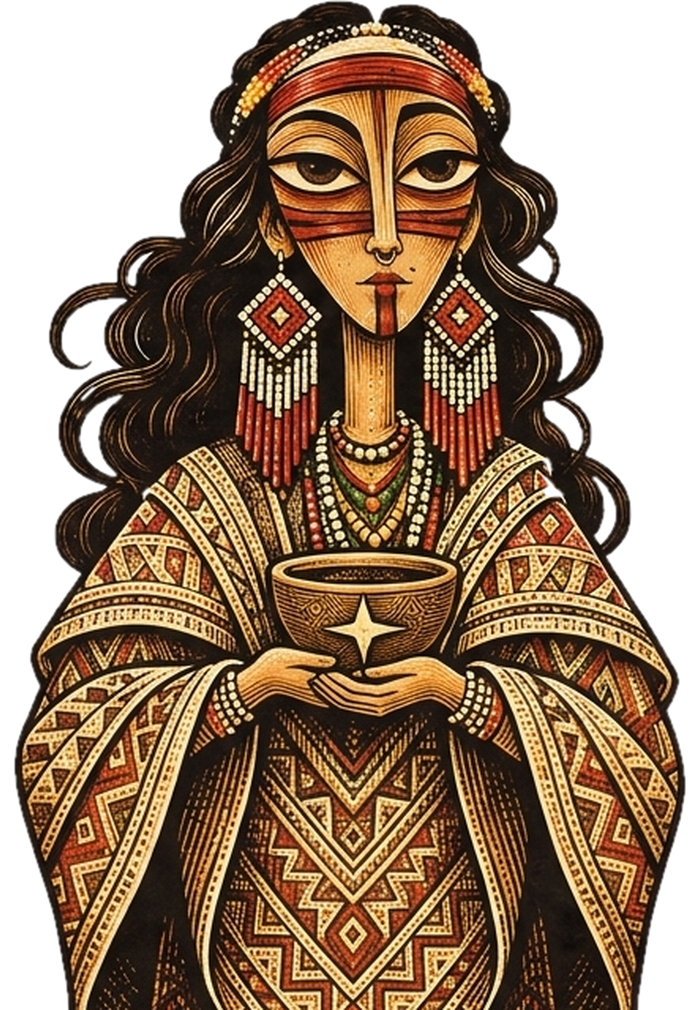
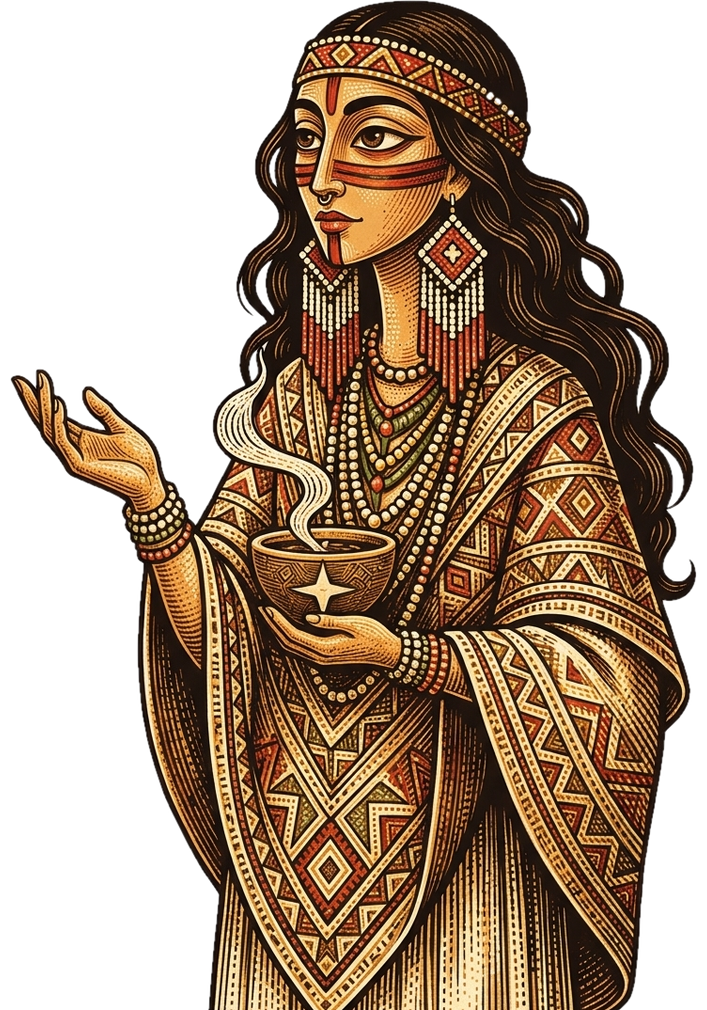
animate who is talking

diff --git a/scripts/generate_sprite_v3.py b/scripts/generate_sprite_v3.py
@@ -32,21 +32,28 @@ CHARACTER_CONFIGS = {
         "sheet_file": "Koraba_ The Bridge Keeper Dossier.png",
         "preview_bg": "bg sanctuary.png",
         "prompt": (
-            "Single full-body neutral standing character sprite of Koraba (The Bridge Keeper, musician and healer), "
+            "Three-quarter-length (knees-up) standing character portrait sprite of Koraba (The Bridge Keeper, musician and healer), "
             "strictly matching the hand-etched woodcut/engraved illustration style, elongated geometric facial features, "
             "fine parallel line hatching, stippling, and warm antique ochre/umber/ivory/slate-blue palette of the illustrated "
             "character on the reference sheet. "
-            "Pose & Framing: Full-body standing pose (standing upright on his feet, feet included—NOT sitting cross-legged), "
-            "front-facing with a relaxed, balanced, grounded ceremonial posture. "
-            "Appearance & Attire: Dark locs tied at the crown with bead-adorned strands framing his face, elongated geometric nose "
-            "and calm attentive eyes with a neutral expression, layered woven sleeveless tunic and draped wrap/shawl with fine linear "
-            "and zig-zag woodcut patterns in warm ochre, antique ivory, and muted indigo-blue, wearing beaded necklaces and bracelets. "
-            "Signature Object: Holding his gourd-bodied kora string instrument naturally at his side/front with hands resting naturally "
-            "near the kora so both his torso and the kora remain clearly readable. "
-            "IMPORTANT ISOLATION RULES: Do NOT include the large circular halo/mandala behind his head. Do NOT include floor rugs, "
-            "bottles, herbs, flutes, drums, text, labels, or character-sheet panels. Render ONLY the single standing character with a "
-            "clean, continuous hand-etched dark black/umber outer contour line, completely isolated on a pure, flat, uniform bright "
-            "white background (#FFFFFF) with generous empty white margins above the head, below the feet, and on both sides."
+            "DYNAMIC 2/3 PROFILE VIEW & DROPPED-SHOULDER POSTURE: Standing in an unmistakable, pronounced 3/4 angled body pose "
+            "(2/3 profile view) with his torso and ribcage turned 35 to 45 degrees into depth—NOT facing dead-on straight forward. "
+            "His closer shoulder is dropped noticeably lower than the other in a relaxed, natural contrapposto stance with a gentle, "
+            "living S-curve in his posture so he feels warm, grounded, and alive rather than stiff or symmetrical. "
+            "HEAD & GAZE (2/3 PROFILE, INTERACTING WITH SCENE PARTNERS): His head is turned at a natural 2/3 profile angle "
+            "(showing more of one cheek and temple, with the bridge of his elongated geometric nose angled in 3/4 profile and a "
+            "subtle 5-degree natural head tilt), and his calm, attentive eyes look naturally forward along his 2/3 head angle "
+            "toward the other characters on stage (engaged in conversation with his companions, NOT staring directly at the camera/viewer). "
+            "ASYMMETRIC SPLIT HANDS & KORA: He holds his gourd-bodied kora string instrument diagonally across his angled torso, "
+            "with his hands at two different heights doing two distinct natural jobs: his upper hand raised to chest/collarbone height "
+            "gently fretting/cradling the wooden kora neck, and his lower hand resting lower on the curved gourd resonator at waist level. "
+            "Appearance & Attire: Dark locs tied at the crown with bead-adorned strands draping naturally over his angled shoulders, "
+            "layered woven sleeveless tunic and asymmetrically draped indigo/ochre wrap/shawl with fine linear and zig-zag woodcut "
+            "patterns, wearing beaded necklaces and bracelets. "
+            "IMPORTANT ISOLATION RULES: Do NOT include the circular halo/mandala behind his head, floor rugs, bottles, herbs, flutes, "
+            "drums, text, or labels. Render ONLY the single standing character with a clean, continuous hand-etched dark black/umber "
+            "outer contour line, completely isolated on a pure, flat, uniform bright white background (#FFFFFF) with generous empty "
+            "white margins above the head and on both left and right sides."
         ),
     },
     "xochit": {
@@ -54,23 +61,30 @@ CHARACTER_CONFIGS = {
         "sheet_file": "Xochit_ Ceremonial Weaver Character Sheet.png",
         "preview_bg": "bg cacao_circle.png",
         "prompt": (
-            "Single full-body neutral standing character sprite of Xochit (The Ceremonial Weaver, ceremonialist and messenger), "
+            "Three-quarter-length (knees-up) standing character portrait sprite of Xochit (The Ceremonial Weaver, ceremonialist and messenger), "
             "strictly matching the hand-etched woodcut/engraved illustration style, stylized geometric facial features, "
             "fine parallel line hatching, stippling, and warm antique ochre/terracotta-red/umber/ivory/olive palette of the illustrated "
             "character on the reference sheet. "
-            "Pose & Framing: Full-body standing pose (standing upright on her feet, feet included—NOT sitting cross-legged), "
-            "front-facing with a relaxed, balanced, grounded posture. "
-            "Appearance & Attire: Long dark wavy/braided hair flowing over her shoulders, geometric red-and-gold beaded headband, "
-            "large diamond-shaped beaded fringe statement earrings, signature ceremonial red and black horizontal face-paint stripes "
-            "across her cheeks and vertical red stripe on her chin/nose bridge, layered beaded necklaces, and a richly patterned "
-            "woven poncho/huipil and long skirt with diamond and step-fret textile motifs. "
-            "Expression & Signature Object: Neutral expression, warm steady gaze, holding her carved ceremonial cacao bowl (marked with "
-            "a four-point star motif) securely with both hands at chest / solar-plexus height (just like the main portrait on the reference sheet, "
-            "with no rising smoke plumes outside her silhouette) so the bowl and hands are clearly visible in an upper-body crop. "
-            "IMPORTANT ISOLATION RULES: Do NOT include the circular cosmic halo behind her head. Do NOT include background baskets, "
-            "flowers, bottles, text, labels, or character-sheet panels. Render ONLY the single standing character with a clean, "
-            "continuous hand-etched dark black/umber outer contour line, completely isolated on a pure, flat, uniform bright "
-            "white background (#FFFFFF) with generous empty white margins above the head, below the feet, and on both sides."
+            "DYNAMIC 2/3 PROFILE VIEW & DROPPED-SHOULDER POSTURE: Standing in an unmistakable, pronounced 3/4 angled body pose "
+            "(2/3 profile view) with her torso and ribcage turned 35 to 45 degrees into depth—NOT facing dead-on straight forward. "
+            "One shoulder is closer to the camera and dropped lower in a graceful, relaxed contrapposto stance with natural asymmetric "
+            "shoulder tilt so she feels expressive, warm, and alive rather than stiff or squared-on. "
+            "HEAD & GAZE (2/3 PROFILE, INTERACTING WITH SCENE PARTNERS): Her head is turned in a natural 2/3 profile view "
+            "(showing more of one side of her face and statement earring, with her nose bridge angled in 3/4 profile and a gentle "
+            "natural head tilt), and her warm, steady eyes look naturally along her 2/3 profile angle toward the other characters "
+            "in the room (interacting with her companions on stage, NOT looking directly at the camera/viewer). "
+            "ASYMMETRIC SPLIT HANDS & CACAO BOWL: Her hands are at two slightly different heights in a natural asymmetric gesture: "
+            "one hand cradling the base of her carved ceremonial cacao bowl (marked with a four-point star motif) near her solar plexus, "
+            "while her other hand is raised slightly higher near the rim/chest in a warm, welcoming ceremonial gesture (no smoke plumes "
+            "extending outside her silhouette). "
+            "Appearance & Attire: Long dark wavy/braided hair flowing asymmetrically over her shoulders, geometric red-and-gold beaded "
+            "headband, large diamond-shaped beaded fringe statement earrings (viewed in 3/4 perspective), signature ceremonial red and "
+            "black horizontal cheek face-paint stripes and vertical red chin stripe, layered beaded necklaces, and richly patterned "
+            "woven poncho/huipil with diamond and step-fret textile motifs. "
+            "IMPORTANT ISOLATION RULES: Do NOT include the circular cosmic halo behind her head, background baskets, flowers, bottles, "
+            "text, or labels. Render ONLY the single standing character with a clean, continuous hand-etched dark black/umber outer "
+            "contour line, completely isolated on a pure, flat, uniform bright white background (#FFFFFF) with generous empty white "
+            "margins above the head and on both left and right sides."
         ),
     },
     "clara": {
@@ -78,23 +92,29 @@ CHARACTER_CONFIGS = {
         "sheet_file": "Clara_ The Registrar Character Sheet.png",
         "preview_bg": "bg apothecary.png",
         "prompt": (
-            "Single full-body neutral standing character sprite of Clara (The Registrar, administrator and archivist), "
+            "Three-quarter-length (knees-up) standing character portrait sprite of Clara (The Registrar, administrator and archivist), "
             "strictly matching the hand-etched woodcut/engraved illustration style, stylized geometric facial features, "
             "fine parallel line hatching, stippling, and warm antique ochre/slate-blue/umber/ivory/terracotta palette of the illustrated "
             "character on the reference sheet. "
-            "Pose & Framing: Full-body standing pose (standing upright on her feet, feet included—NOT sitting cross-legged), "
-            "front-facing with a composed, organized, balanced posture. "
+            "DYNAMIC 2/3 PROFILE VIEW & DROPPED-SHOULDER POSTURE: Standing in an unmistakable, pronounced 3/4 angled body pose "
+            "(2/3 profile view) with her torso and ribcage turned 35 to 45 degrees into depth—NOT facing dead-on straight forward. "
+            "One shoulder is closer to the camera and dropped lower in a natural, poised contrapposto stance with asymmetric shoulder "
+            "line and relaxed weight shift so she feels observant and alive rather than stiff or symmetrical. "
+            "HEAD & GAZE (2/3 PROFILE, INTERACTING WITH SCENE PARTNERS): Her head is turned at a natural 2/3 profile angle "
+            "(showing more of the side of her face with her structured side bun prominently visible in 3/4 perspective, nose bridge "
+            "angled in 3/4 profile, and a subtle head tilt), and her composed, perceptive eyes look naturally along her 2/3 profile "
+            "angle toward the other characters in the scene (engaged with her colleagues on stage, NOT looking directly at the camera/viewer). "
+            "ASYMMETRIC SPLIT HANDS & PROPS: Her hands are at two different heights doing two distinct jobs: one arm bent to hold her "
+            "clipboard (bearing a four-point star emblem) angled across her chest, while her other hand is raised slightly higher holding "
+            "a fountain pen poised near the top corner of the clipboard (or resting on a ledger tucked under her arm at waist height). "
             "Appearance & Attire: Blonde hair styled in a neat parted updo with a structured side/low bun, pearl stud earrings, "
             "tailored slate-blue blazer with subtle engraved orbit/spiral sleeve and lapel patterns and a small four-point star lapel pin "
-            "over a crisp collared shirt, red lanyard with ID keycard badge around her neck, and matching tailored trousers/skirt with "
-            "fine linear woodcut hatching. "
-            "Expression & Signature Object: Neutral expression, composed steady gaze, holding a clipboard with a four-point star emblem "
-            "at chest height in one hand and a closed ledger/binder tucked against her upper side in the other hand so both are clearly "
-            "visible in an upper-body crop. "
-            "IMPORTANT ISOLATION RULES: Do NOT include the circular bookshelf halo/arch behind her head. Do NOT include desks, lamps, "
-            "mugs, stacks of binders, text, labels, or character-sheet panels. Render ONLY the single standing character with a clean, "
-            "continuous hand-etched dark black/umber outer contour line, completely isolated on a pure, flat, uniform bright "
-            "white background (#FFFFFF) with generous empty white margins above the head, below the feet, and on both sides."
+            "over a crisp collared shirt, red lanyard with ID keycard badge hanging naturally along her angled chest, and matching tailored "
+            "trousers/skirt with fine linear woodcut hatching. "
+            "IMPORTANT ISOLATION RULES: Do NOT include the circular bookshelf halo/arch behind her head, desks, lamps, mugs, stacks of "
+            "binders, text, or labels. Render ONLY the single standing character with a clean, continuous hand-etched dark black/umber "
+            "outer contour line, completely isolated on a pure, flat, uniform bright white background (#FFFFFF) with generous empty white "
+            "margins above the head and on both left and right sides."
         ),
     },
 }
@@ -180,12 +200,14 @@ def extract_clean_cutout(raw_path: str) -> Image.Image:
                 bg_mask[comp_mask] = 255
                 continue
 
-        # Case (a): large pure-white limb/arm/leg pass-through void
-        if area >= 140 and (cx < w * 0.44 or cx > w * 0.55 or cy > h * 0.75):
+        # Case (a): pure-white enclosed background pass-through void (between arms, instrument neck, hair, etc.)
+        if area >= 15 and not (w * 0.36 <= cx <= w * 0.58 and h * 0.14 <= cy <= h * 0.22):
             p85_g = float(np.percentile(gray[comp_mask], 85))
             p25_w = float(np.percentile(warmth[comp_mask], 25))
-            if p85_g >= 248.0 and p25_w <= 5.0 and ring_gray < 115.0:
+            if p85_g >= 246.0 and p25_w <= 8.0 and ring_gray < 225.0:
                 bg_mask[comp_mask] = 255
+                hole_dil = cv2.dilate(comp_mask.astype(np.uint8) * 255, np.ones((3, 3), np.uint8), iterations=1)
+                bg_mask[(hole_dil > 0) & (gray >= 200) & (warmth <= 15)] = 255
 
     # Secondary pass strictly for small holes inside dark outer hair curls (cy < 0.29, outside earrings/shoulders)
     hair_hole_cand = ((gray >= 195) & (bg_mask == 0)).astype(np.uint8)
@@ -264,8 +286,12 @@ def build_sprite_and_previews(rgba_cutout: Image.Image, char_key: str, suffix: s
     print(f"[SAVED] 3/4-length 560x880 sprite -> {wq_path}")
 
     # 3. Scale D (Approved Default: Extra-Large Bust/Waist-Up, 1010px tall on 1080p stage,
-    #    cropping at 56% of full-body height so head is at y=70 and details pop on screen)
-    crop_d = tight.crop((0, 0, tight.width, int(round(tight.height * 0.56))))
+    #    head at y=70, both hands and signature prop visible above the y=802 textbox,
+    #    and lower garment extending down to y=1080 behind the semi-transparent textbox)
+    #    For knees-up (3/4-length) raw renders, 0.96 of tight.height places the waist/prop
+    #    right above y=802 and the thighs behind the textbox.
+    crop_ratio_d = 0.96
+    crop_d = tight.crop((0, 0, tight.width, int(round(tight.height * crop_ratio_d))))
     target_hd = 1010
     scale_d = target_hd / crop_d.height
     wd = int(round(crop_d.width * scale_d))
@@ -349,8 +375,10 @@ def generate_character_sprite(char_name: str, custom_prompt: str = None, suffix:
                 "Task:\n"
                 f"{prompt}\n\n"
                 "Strict Negative Constraints (DO NOT INCLUDE): "
-                "sitting pose, cross-legged pose, floating halo behind head, circular background mandala, floor rug, extra props on the ground, "
-                "multiple figures, turnaround sheet layout, text, typography, labels, watermarks, photorealism, 3D rendering, gradients on background."
+                "dead-on front-facing view, flat frontal pose, symmetrical stance, squared level shoulders, stiff mannequin posture, "
+                "both hands at the same height, sitting pose, cross-legged pose, floating halo behind head, circular background mandala, "
+                "floor rug, extra props on the ground, multiple figures, turnaround sheet layout, text, typography, labels, watermarks, "
+                "photorealism, 3D rendering, gradients on background."
             )
         }
     ]
